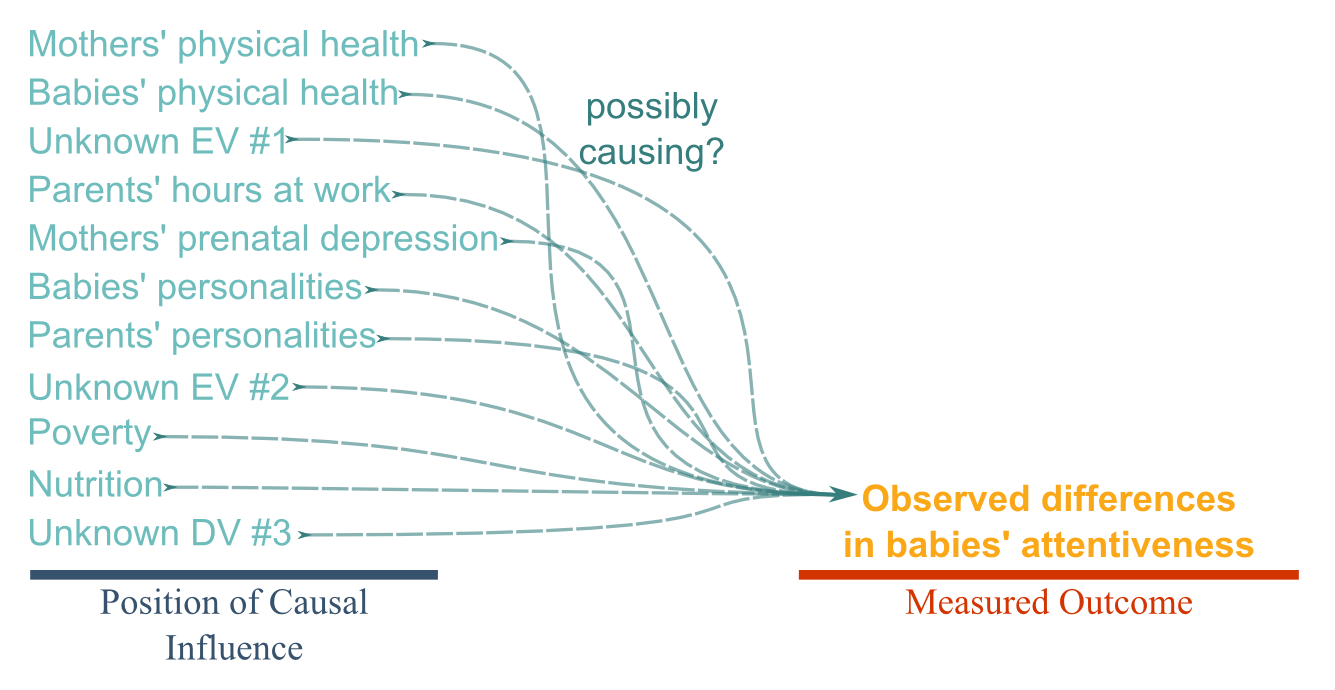
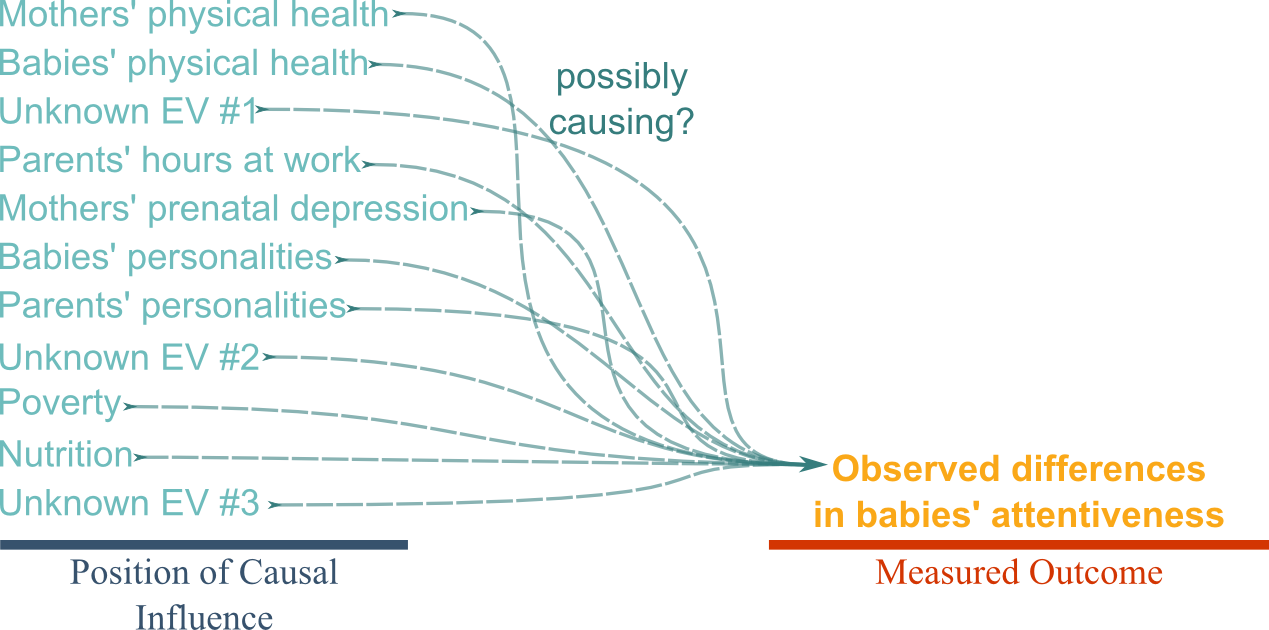
Correcting 'DV' to 'EV' in Fig 01-04

Changed region(s): [[0.0, 0.0, 1.0, 1.0], [0.0, 0.3921, 0.3688, 0.5127], [0.5225, 0.3317, 0.5532, 0.4222]]

diff --git a/Chapter01/InternalNotes.md b/Chapter01/InternalNotes.md
@@ -24,4 +24,4 @@ The [temp orange to blue palette](http://colrd.com/palette/28063/) is used for t
 
 
 ## DPI
-When saving FIgure 01-03 as a PDF, a resolution needs to be specified for the (intentionally) burry effects.  Use at least 600 dpi, preferably 1200.
+When saving Figure 01-03 as a PDF, a resolution needs to be specified for the (intentionally) burry effects.  Use at least 600 dpi, preferably 1200.
